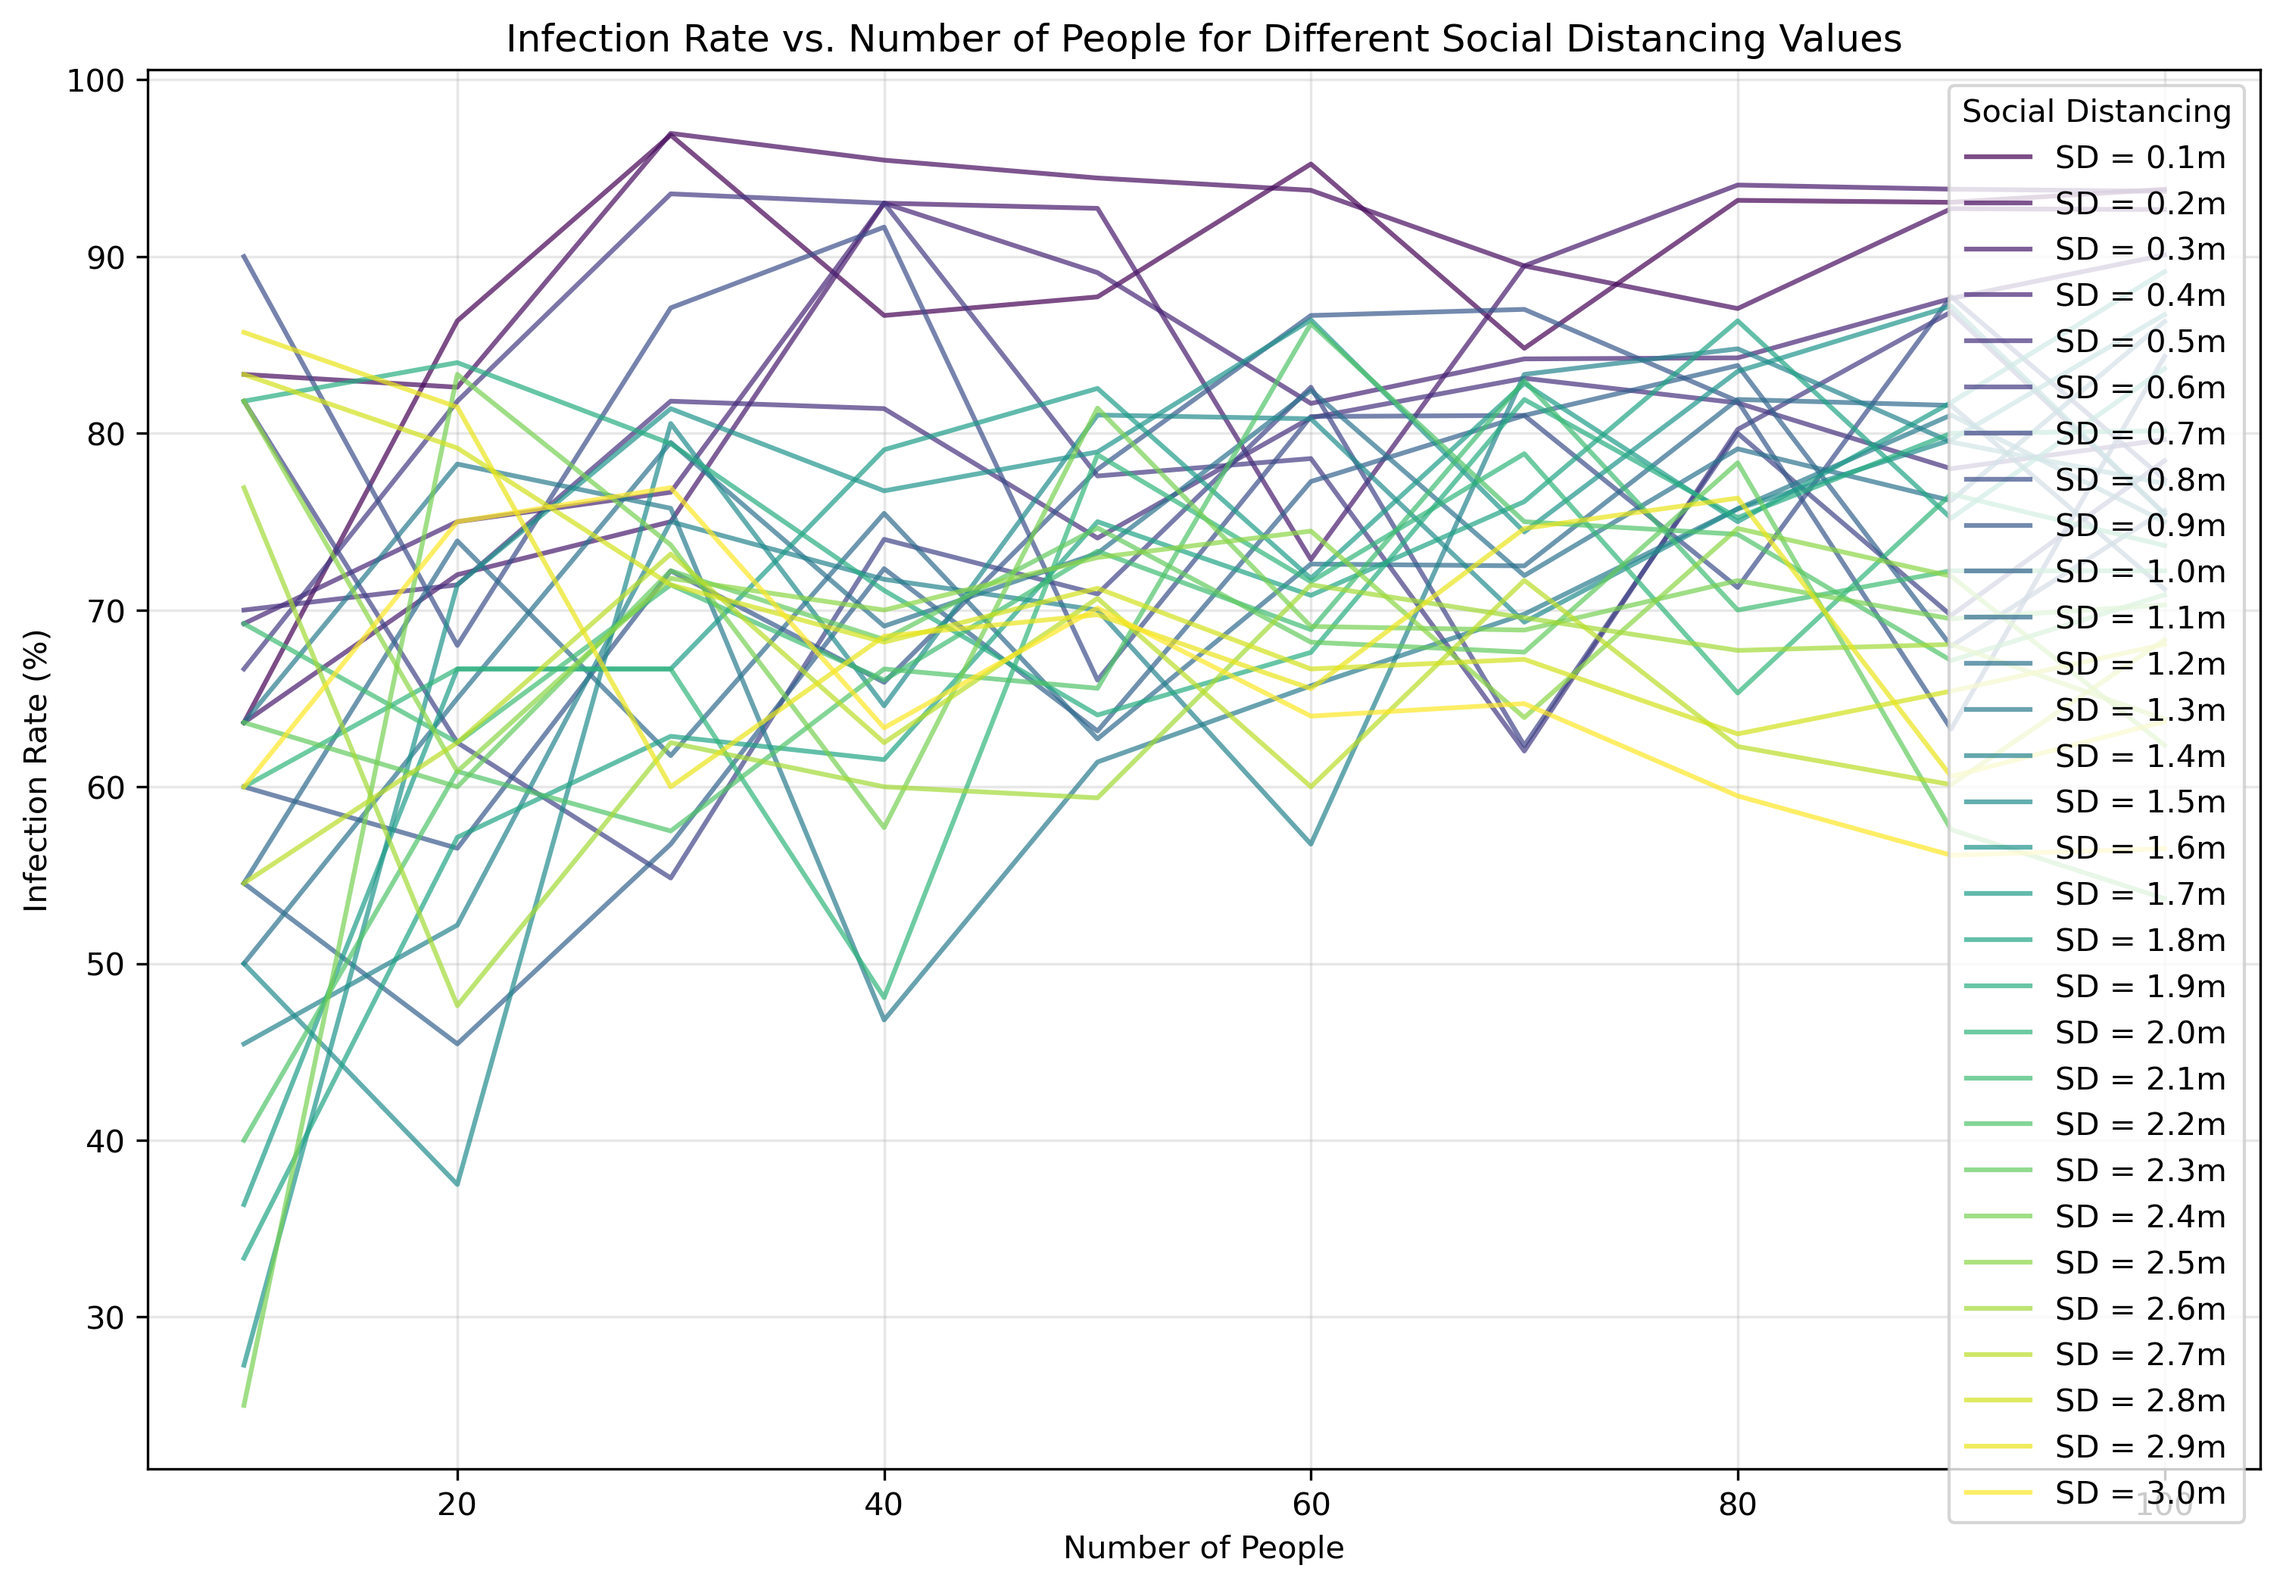
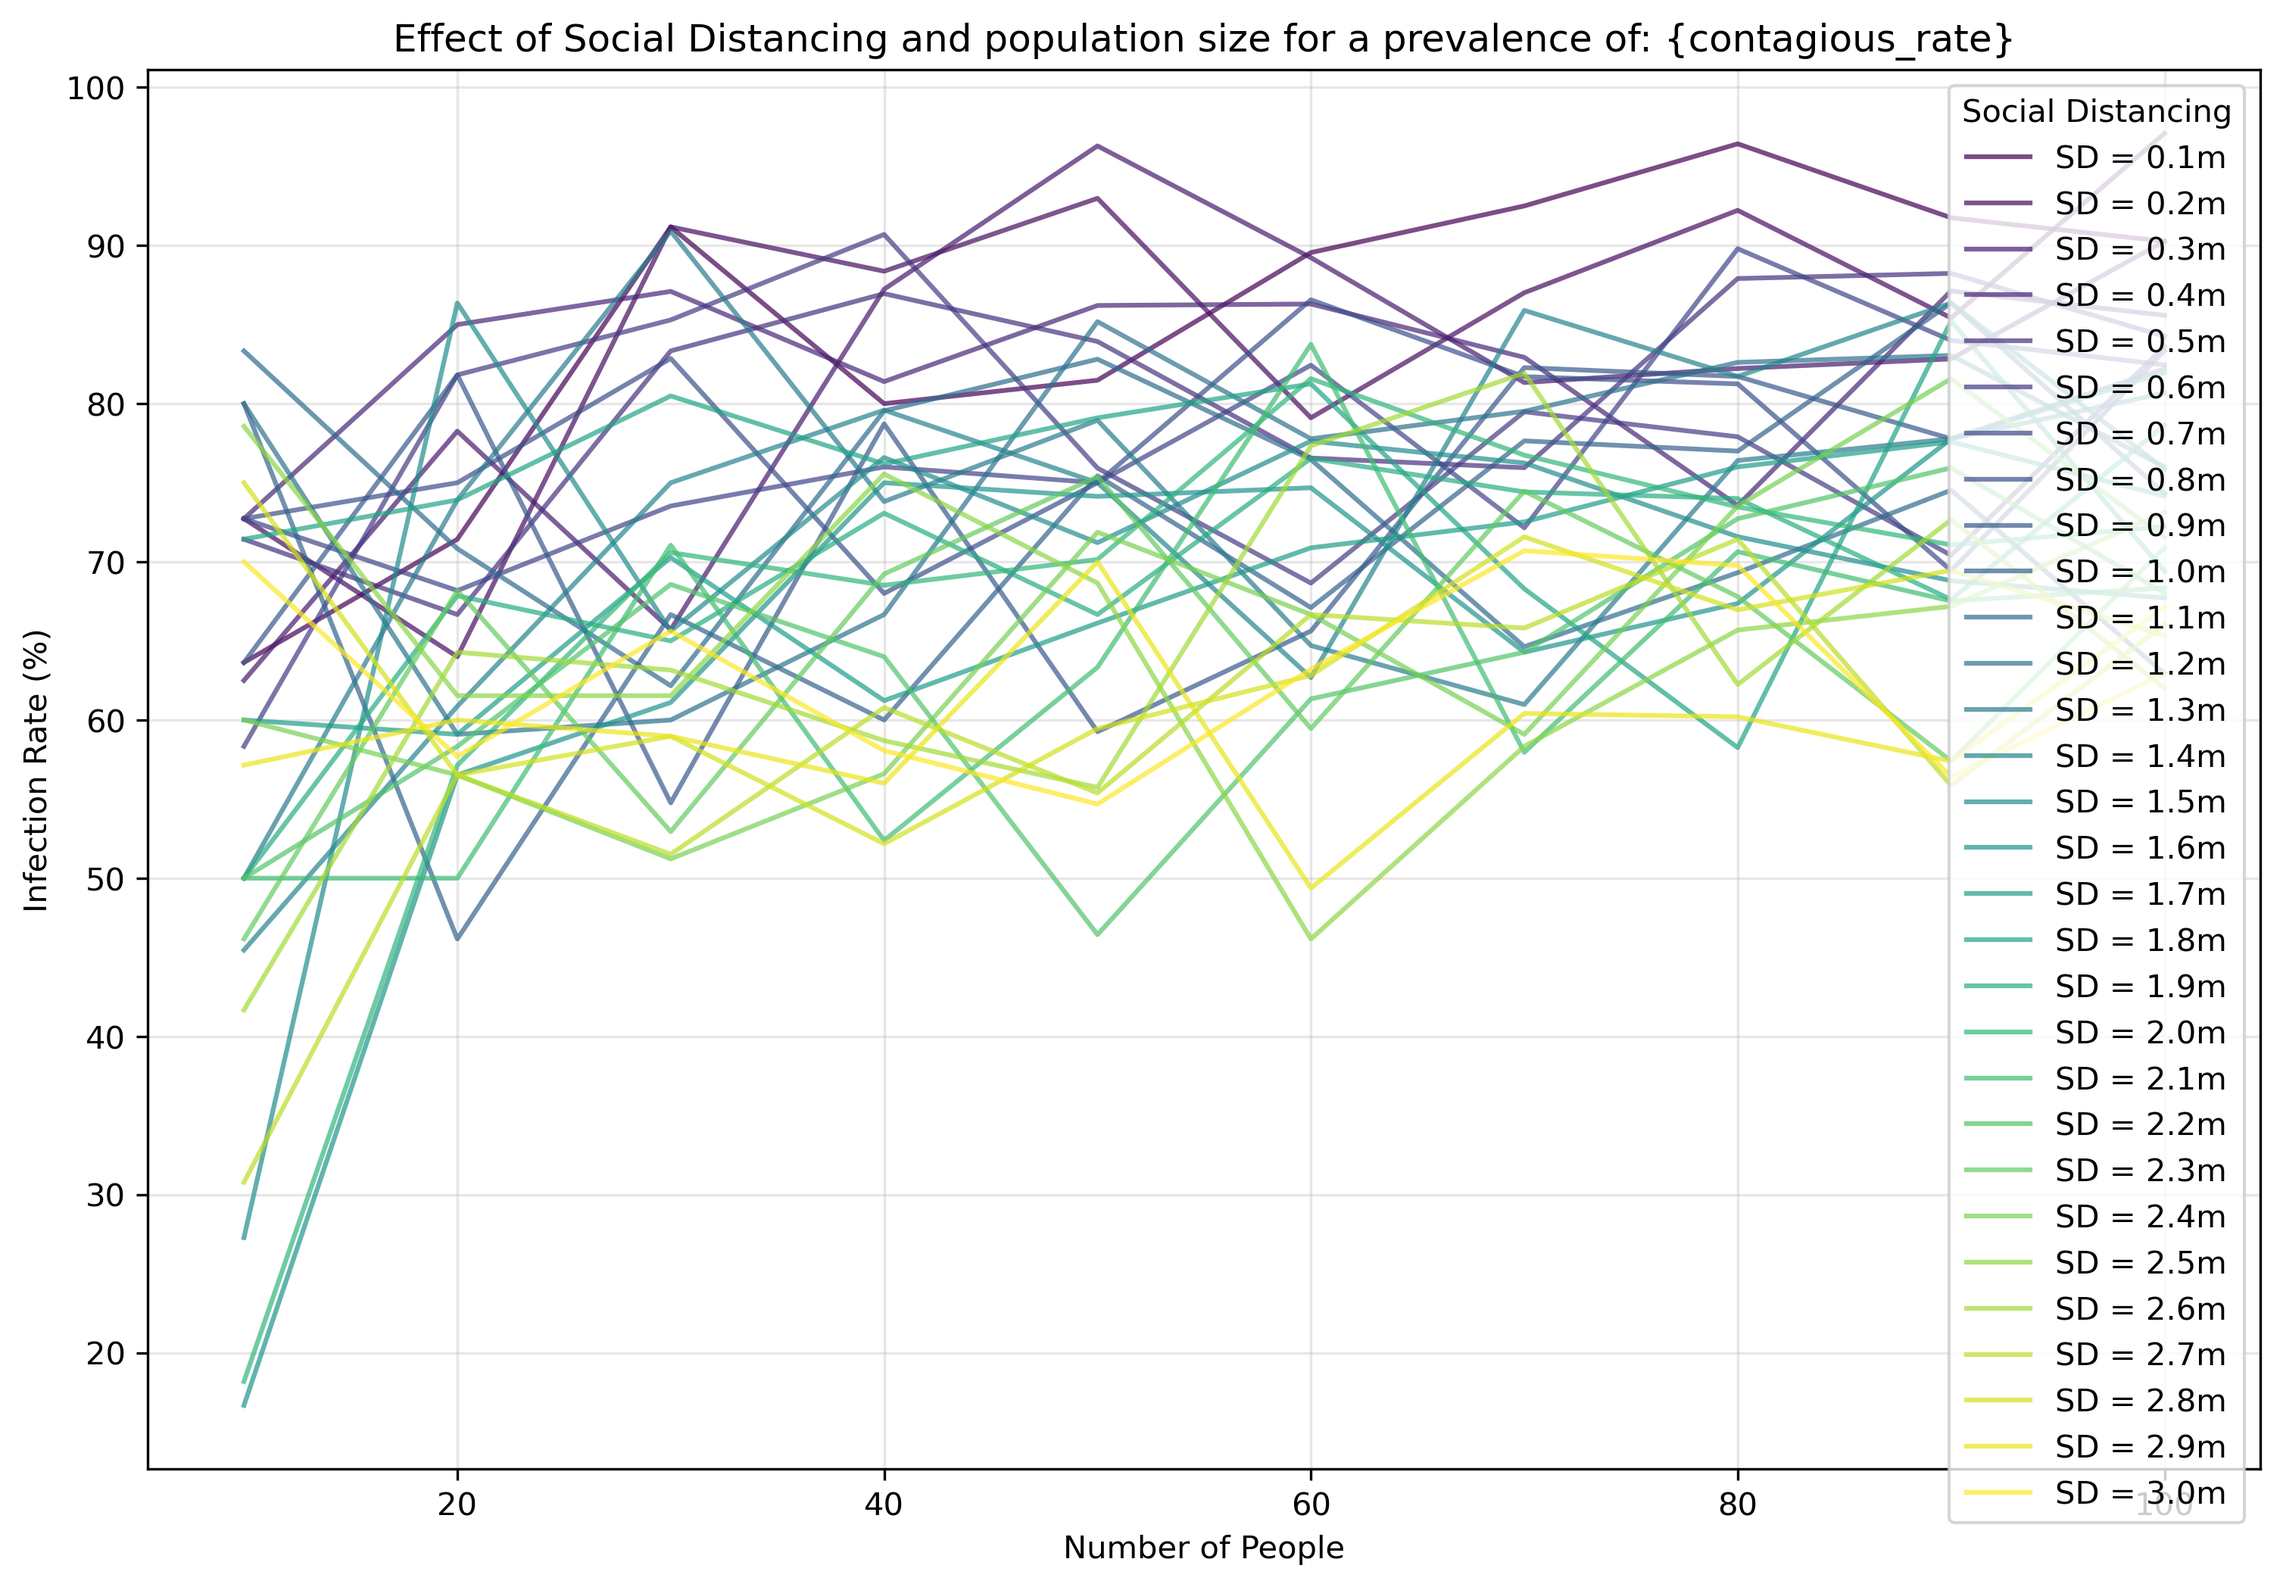
Refactoring and bug fixes improved comments and general usesability of the code

diff --git a/Modeling Covid.py b/Modeling Covid.py
@@ -87,8 +87,8 @@ class Map:
                 else:
                     move, apc = self.position_check(apc, self.personal_space, index, proposed_step)
                     apc[index].position = proposed_step
-                    if emergency_stop > 5:
-                        print("Emergency stop triggered for person", index)
+                    if emergency_stop > 3:
+                        print("waited", index)
                         self.flows_stop += 1
                         apc = self.all_people.copy() #resets the apc temporarily
                         break
@@ -234,7 +234,7 @@ class Simulation:
         return self.ani
 
 class Comparison:
-    def __init__(self, bounds, upper_bound_people, probably_infected=0.5, time_per_simulation=1000, max_social_distancing=3):
+    def __init__(self, bounds, upper_bound_people, upper_bound_social_distancing, time_per_sim, contagious_rate=0.5):
         """
         Initialize a comparison simulation with varying population sizes and social distancing values.
         
@@ -245,37 +245,34 @@ class Comparison:
         - time_per_simulation: Time steps for each simulation
         - max_social_distancing: Maximum social distancing value to test
         """
-        self.bounds = bounds
-        self.upper_bound_people = upper_bound_people
-        self.probably_infected = probably_infected
-        self.time_per_simulation = time_per_simulation
-        self.max_social_distancing = max_social_distancing
+        self.bounds = bounds #sets the bounds of the simulation where bounds are [x_max,y_max]
+        self.upper_bound_people = upper_bound_people #sets the upper bound of number of people 
+        self.contagious_rate = contagious_rate #sets the rate of contagious people
+        self.time_per_simulation = time_per_sim #sets the time of each simulation
+        self.max_social_distancing = upper_bound_social_distancing #sets the upper bound for social distancing
         self.results = []
         
     def run_comparison(self):
         """Run multiple simulations with varying numbers of people and social distancing values."""
-        # Vary social distancing from 0.1 to max value in increments of 0.1
+        # Loop through different social distancing values
         for social_dist in np.arange(0.1, self.max_social_distancing + 0.1, 0.1):
-            social_dist = round(social_dist, 1)  # Round to avoid floating point issues
+            social_dist = round(social_dist, 1)  
             print(f"\nTesting social distancing: {social_dist}")
-            
-            # Start with 10 people and increase by 10 until upper bound
+            # Loop through different numbers of people in the station
             for num_people in range(10, self.upper_bound_people + 1, 10):
                 print(f"Running simulation with {num_people} people, social distancing: {social_dist}...")
-                
-                # Create map directly to avoid animation setup
-                map_obj = Map(self.bounds, num_people, self.probably_infected)
-                map_obj.personal_space = social_dist  # Set the social distancing parameter
-                
-                # Run for specified time steps
+
+                map_obj = Map(self.bounds, num_people, self.contagious_rate)
+                map_obj.personal_space = social_dist  
+                #the board move sequance
                 for _ in range(self.time_per_simulation):
                     for i in range(len(map_obj.all_people)):
                         map_obj.move(i)
-                
-                # Calculate infection rate and store results
+
+                # Calculate infection rate
                 infection_rate = (map_obj.total_infected / map_obj.total_number_of_people) * 100
-                
-                # Store detailed results
+
+                #update studnent household manger to use this 'storage technique
                 result = {
                     'social_distancing': social_dist,
                     'num_people': num_people,
@@ -285,75 +282,70 @@ class Comparison:
                     'infection_rate': infection_rate,
                     'flows_stopped': map_obj.flows_stop
                 }
+
+                #stores the results 
                 self.results.append(result)
             
         return self.results
     
+
     def save_results_to_excel(self, filename="simulation_results.xlsx"):
         """Save the results to an Excel file with initial conditions on a separate sheet."""
+        # Check if results are available
         if not self.results:
             print("No results to save. Run the comparison first.")
             return
-        
-        # Convert results to a DataFrame
+        # Create a DataFrame with intial and input conditions
         results_df = pd.DataFrame(self.results)
-        
-        # Create a DataFrame for initial conditions
+
         initial_conditions = {
             "Bounds": [self.bounds],
             "Upper Bound People": [self.upper_bound_people],
-            "Probably Infected": [self.probably_infected],
+            "Contagious Rate": [self.contagious_rate],
             "Time Per Simulation": [self.time_per_simulation],
             "Max Social Distancing": [self.max_social_distancing]
         }
         initial_conditions_df = pd.DataFrame(initial_conditions)
+
         
-        # Write to Excel
+        # Save to Excel file with two sheets
         with pd.ExcelWriter(filename) as writer:
-            initial_conditions_df.to_excel(writer, sheet_name="Initial Conditions", index=False)
+            initial_conditions_df.to_excel(writer, sheet_name="p_max{self.upper_bound_people}_sd_max{self.upper_bound_social_distancing}_smr{self.time_per_sim}", index=False)
             results_df.to_excel(writer, sheet_name="Results", index=False)
         
         print(f"Results saved to {filename}")
     
     def plot_infection_rates(self):
         """Plot infection rates against number of people with trendlines for each social distancing value."""
+        # Check if results are available
         if not self.results:
             print("No results to plot. Run the comparison first.")
             return
-        
-        # Convert results to a DataFrame
+
         results_df = pd.DataFrame(self.results)
-        
-        # Create a figure
+
         plt.figure(figsize=(12, 8))
-        
-        # Get unique social distancing values
+
         social_dist_values = sorted(results_df['social_distancing'].unique())
-        
-        # Define a color map
+        # Create a color map for different social distancing values
         colors = plt.cm.viridis(np.linspace(0, 1, len(social_dist_values)))
-        
-        # Plot data points for each social distancing value
+        # Plot infection rates for each social distancing value
         for i, sd in enumerate(social_dist_values):
-            # Filter data for this social distancing value
-            sd_data = results_df[results_df['social_distancing'] == sd]
             
-            # Plot scatter points
+            sd_data = results_df[results_df['social_distancing'] == sd]
+
             plt.plot(sd_data['num_people'], sd_data['infection_rate'], 
                    color=colors[i], alpha=0.7, label=f'SD = {sd}m')
-        
-        # Add labels and title
+
         plt.xlabel('Number of People')
         plt.ylabel('Infection Rate (%)')
-        plt.title('Infection Rate vs. Number of People for Different Social Distancing Values')
+        plt.title('Effect of Social Distancing and population size for a prevalence of: {contagious_rate}')
         plt.legend(title='Social Distancing', loc='best')
         plt.grid(True, alpha=0.3)
-        
-        # Save the figure
+
         plt.savefig('infection_rate_analysis.png', dpi=300, bbox_inches='tight')
         print("Plot saved as 'infection_rate_analysis.png'")
-        
-        # Show the plot
+
         plt.show()
     
     def run_full_comparison(self):
@@ -362,8 +354,6 @@ class Comparison:
         self.save_results_to_excel()
         self.plot_infection_rates()
 
-
 if __name__ == "__main__":
-    comparison = Comparison((100, 5), 100)
+    comparison = Comparison((240, 5) ,20, 3, 10)
     comparison.run_full_comparison()
-  
